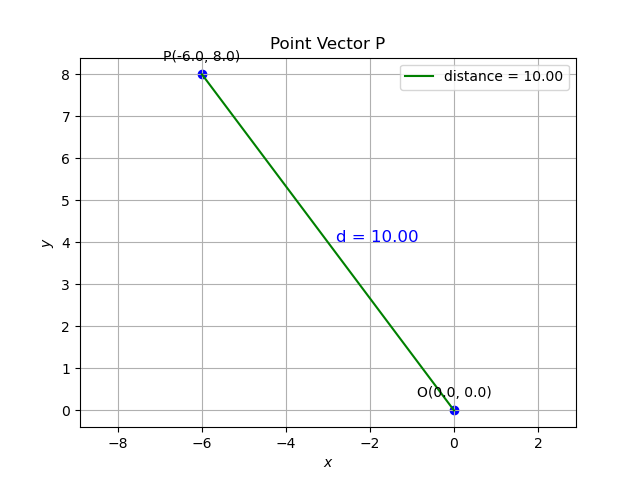
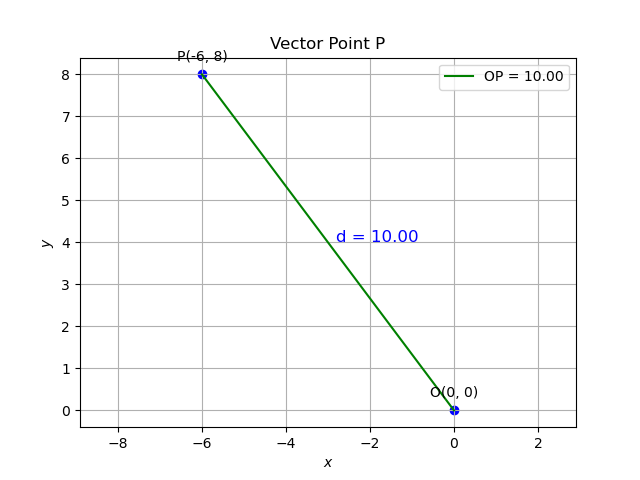
Matgeo 2

diff --git a/ee25btech11018/assignments/Matgeo/1.9.7/codes/codenorm.c b/ee25btech11018/assignments/Matgeo/1.9.7/codes/codenorm.c
@@ -1,0 +1,16 @@
+#include <stdio.h>
+#include <math.h>
+
+// Function to compute distance from origin
+double norm(int x, int y) {
+    return sqrt(x*x + y*y);
+}
+
+int main() {
+    int x = -6, y = 8;
+    printf("Given point: (%d, %d)\n", x, y);
+    double distance = norm(x,y);
+    printf("Therefore, the distance of the point (%d, %d) from the origin is %.2f units.\n", x, y, distance);
+    return 0;
+}
+

diff --git a/ee25btech11018/assignments/Matgeo/1.9.7/codes/call.py b/ee25btech11018/assignments/Matgeo/1.9.7/codes/call.py
@@ -1,0 +1,14 @@
+import ctypes
+
+# Load the shared library
+lib = ctypes.CDLL("./libcodenorm.so")
+
+# Set argument and return types for the function
+lib.norm.argtypes = [ctypes.c_int, ctypes.c_int]
+lib.norm.restype = ctypes.c_double
+
+# Call the function
+x, y = -6, 8
+distance = lib.norm(x, y)
+print(f"Therefore, the distance of the point ({x}, {y}) from the origin is {distance:.2f} units.")
+
